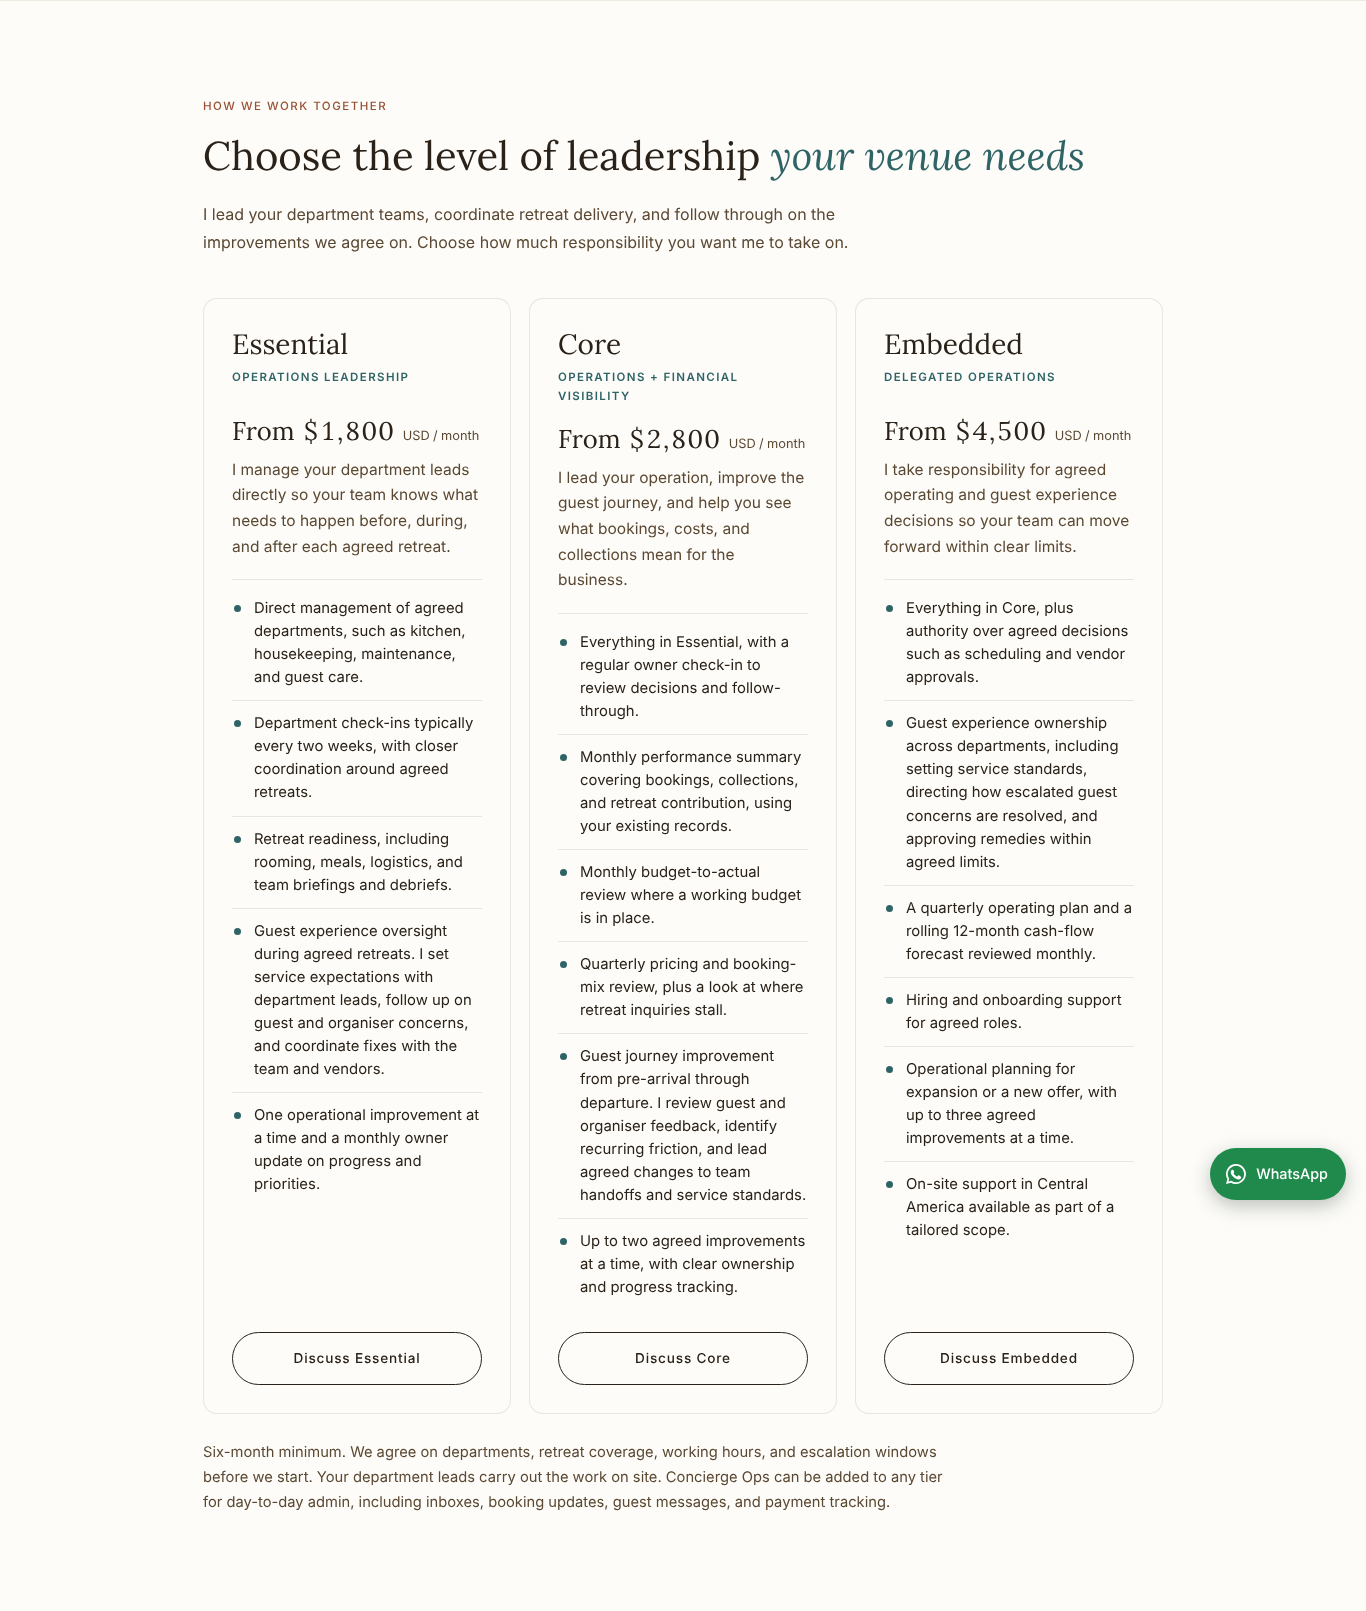
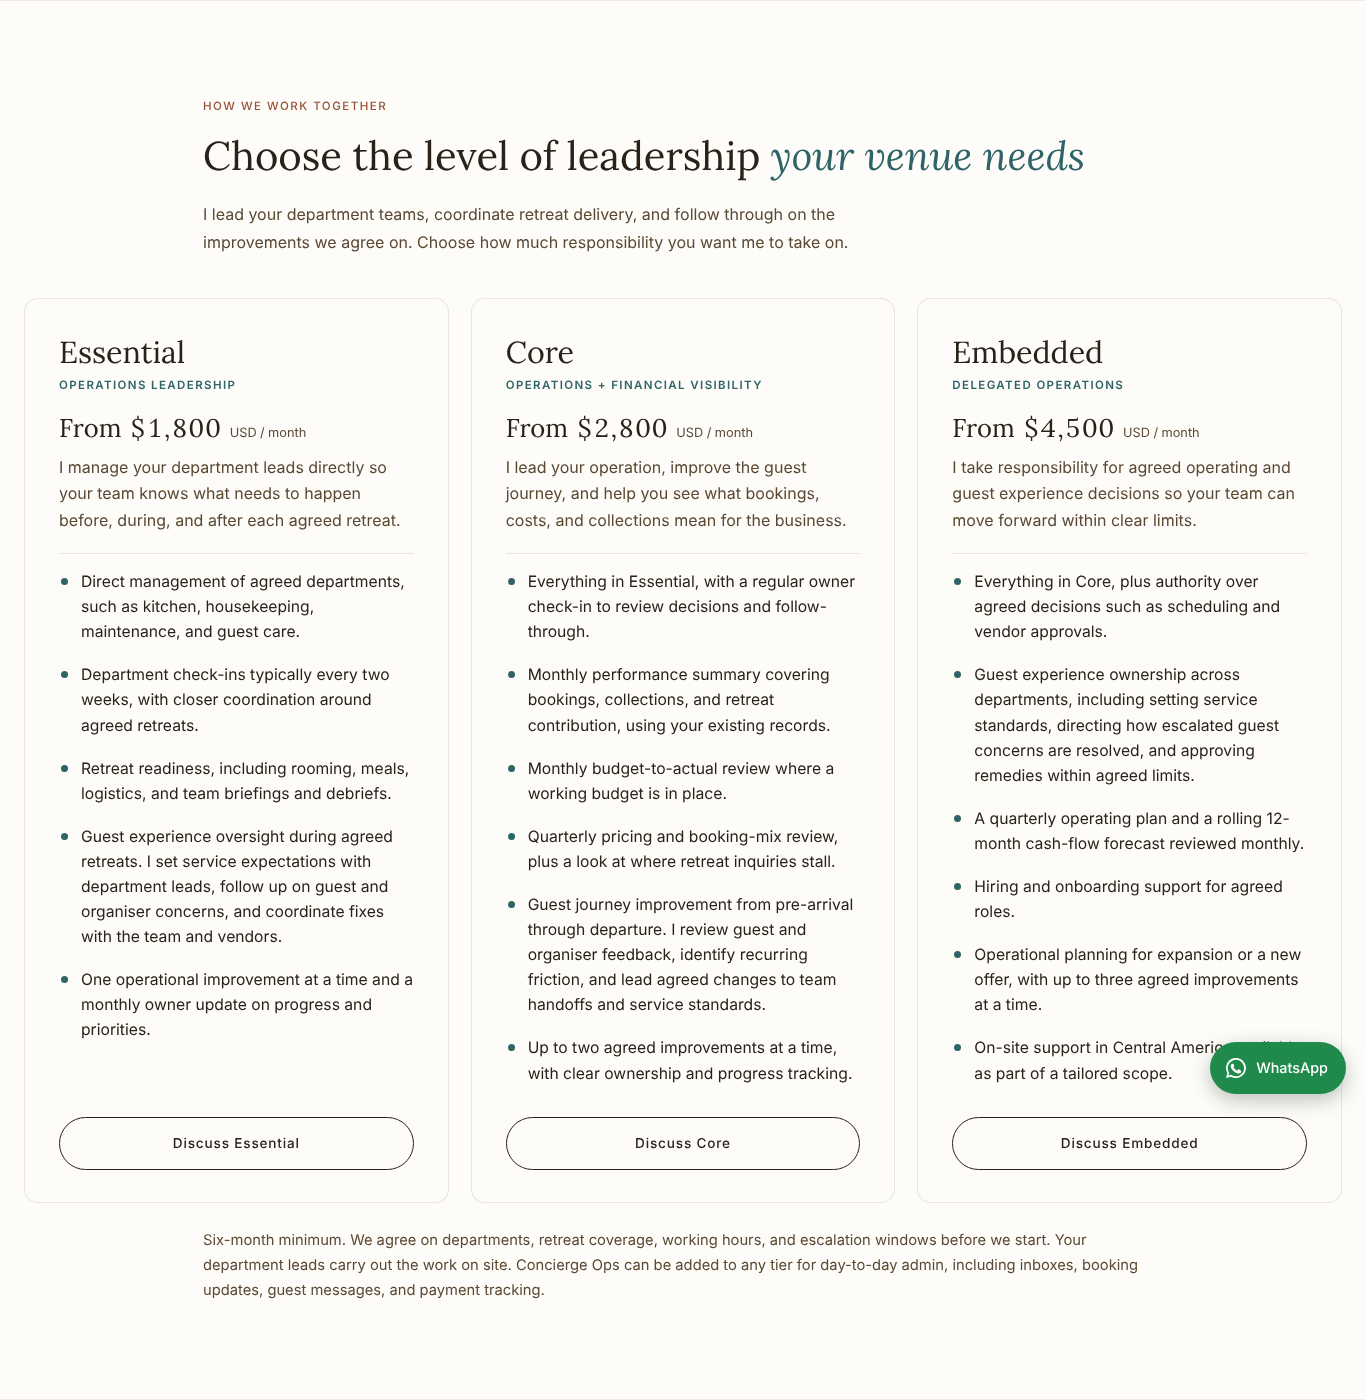
Director tiers: wider cards, roomier lists
Claude-Session: https://claude.ai/code/session_01HiWWKLgyziCvM3yNr6Q5Ht

diff --git a/fractional-operations-director.html b/fractional-operations-director.html
@@ -688,6 +688,15 @@ if(n)try{umami.track(n,{page:location.pathname,link:(a.textContent||a.getAttribu
 .tier-btn{margin-top:22px;display:block;text-align:center;padding:14px 18px;border-radius:999px;border:1px solid var(--earth);color:var(--earth);text-decoration:none;font-size:.85rem;font-weight:500;letter-spacing:.06em;transition:background .25s,color .25s}
 .tier-btn:hover{background:var(--earth);color:var(--warm-white)}
 .tier-note{margin-top:1.6rem;max-width:80ch;color:var(--earth-mid);font-size:.92rem;line-height:1.7}
+.tiers{width:min(1240px,calc(100vw - 96px));margin-left:calc(50% - min(620px,calc(50vw - 48px)));gap:24px}
+.tier{padding:36px 34px 32px}
+.tier h3{font-size:1.9rem}
+.tier-tag{min-height:0!important;white-space:nowrap}
+.tier-sum{font-size:1rem;min-height:3.4em}
+.tier li{border-bottom:0;padding:9px 0 9px 22px;font-size:.98rem;line-height:1.6}
+.tier li::before{top:18px}
+.tier-note{max-width:none}
+@media(max-width:960px){.tiers{width:100%;margin-left:0;max-width:640px}.tier-tag{white-space:normal}}
 @media(max-width:960px){.tiers{grid-template-columns:1fr;max-width:620px}.tier-sum{min-height:0}}
 @media(max-width:860px){.dm-fit,.dm-cards,.dm-num,.dm-case{grid-template-columns:1fr}.dm-num>div+div{padding-left:0;border-left:0;border-top:1px solid var(--border)}.dm-steps{grid-template-columns:1fr 1fr}.dm-steps::before{display:none}.dm-case{padding:28px 24px;gap:1.75rem}}
 @media(max-width:520px){.dm-steps{grid-template-columns:1fr}.dm-cmp div{grid-template-columns:1fr}}

diff --git a/content/director-main.html b/content/director-main.html
@@ -50,6 +50,15 @@
 .tier-btn{margin-top:22px;display:block;text-align:center;padding:14px 18px;border-radius:999px;border:1px solid var(--earth);color:var(--earth);text-decoration:none;font-size:.85rem;font-weight:500;letter-spacing:.06em;transition:background .25s,color .25s}
 .tier-btn:hover{background:var(--earth);color:var(--warm-white)}
 .tier-note{margin-top:1.6rem;max-width:80ch;color:var(--earth-mid);font-size:.92rem;line-height:1.7}
+.tiers{width:min(1240px,calc(100vw - 96px));margin-left:calc(50% - min(620px,calc(50vw - 48px)));gap:24px}
+.tier{padding:36px 34px 32px}
+.tier h3{font-size:1.9rem}
+.tier-tag{min-height:0!important;white-space:nowrap}
+.tier-sum{font-size:1rem;min-height:3.4em}
+.tier li{border-bottom:0;padding:9px 0 9px 22px;font-size:.98rem;line-height:1.6}
+.tier li::before{top:18px}
+.tier-note{max-width:none}
+@media(max-width:960px){.tiers{width:100%;margin-left:0;max-width:640px}.tier-tag{white-space:normal}}
 @media(max-width:960px){.tiers{grid-template-columns:1fr;max-width:620px}.tier-sum{min-height:0}}
 @media(max-width:860px){.dm-fit,.dm-cards,.dm-num,.dm-case{grid-template-columns:1fr}.dm-num>div+div{padding-left:0;border-left:0;border-top:1px solid var(--border)}.dm-steps{grid-template-columns:1fr 1fr}.dm-steps::before{display:none}.dm-case{padding:28px 24px;gap:1.75rem}}
 @media(max-width:520px){.dm-steps{grid-template-columns:1fr}.dm-cmp div{grid-template-columns:1fr}}
